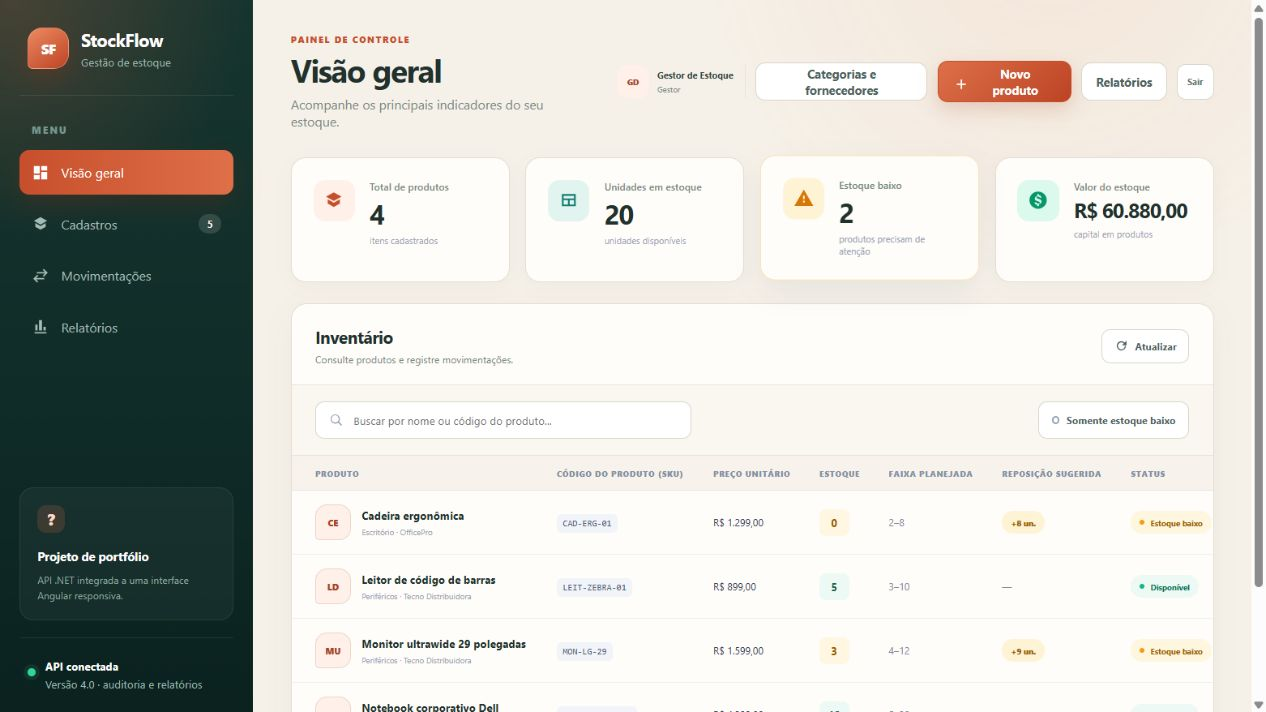
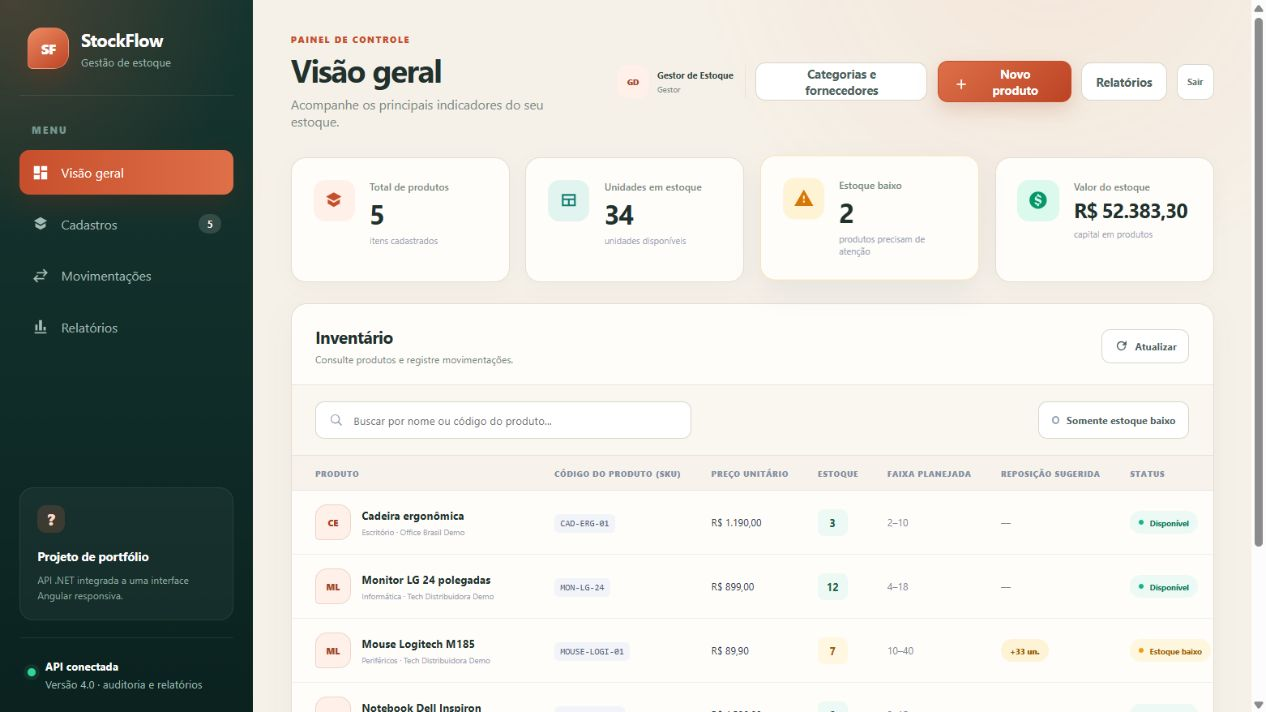
Atualizar imagens e apresentação do README
Atualiza as capturas reais da aplicação e garante a renderização correta no README.

diff --git a/README.md b/README.md
@@ -1,5 +1,10 @@
 # StockFlow
 
+![.NET](https://img.shields.io/badge/.NET-10-512BD4?logo=dotnet)
+![Angular](https://img.shields.io/badge/Angular-22-DD0031?logo=angular)
+![SQL Server](https://img.shields.io/badge/SQL_Server-ready-CC2927?logo=microsoftsqlserver)
+![Docker](https://img.shields.io/badge/Docker-ready-2496ED?logo=docker&logoColor=white)
+
 [![Integração contínua](https://github.com/SamuelMonsalvesMoreira/StockFlow/actions/workflows/ci.yml/badge.svg)](https://github.com/SamuelMonsalvesMoreira/StockFlow/actions/workflows/ci.yml)
 [![Demonstração online](https://img.shields.io/badge/demonstração-online-16a34a)](https://stockflow-samuel.onrender.com/)
 
@@ -13,7 +18,7 @@ Não é necessário instalar ou configurar nada. Na tela de entrada, escolha **A
 
 O Angular e a API ASP.NET Core são publicados no mesmo serviço e no mesmo endereço. Isso mantém a autenticação por cookie no mesmo domínio e simplifica a execução da demonstração.
 
-O serviço gratuito pode levar cerca de um minuto para iniciar após um período sem acessos. O ambiente utiliza dados exclusivamente fictícios e armazenamento em memória: alterações realizadas durante uma visita podem ser reiniciadas quando o serviço for reiniciado.
+O serviço gratuito pode levar alguns segundos para iniciar após um período sem acessos. As alterações feitas na versão online podem ser reiniciadas junto com o serviço.
 
 ## Demonstração visual
 
@@ -31,6 +36,17 @@ O serviço gratuito pode levar cerca de um minuto para iniciar após um período
 ![Tela de login com acessos demonstrativos](docs/screenshots/login.png)
 
 </details>
+
+## Visão técnica
+
+| Área | Implementação |
+|---|---|
+| Back-end | C#, .NET 10 e ASP.NET Core Web API |
+| Front-end | Angular 22 e TypeScript |
+| Segurança | Cookie HttpOnly e autorização Viewer/Manager |
+| Dados | Memória ou Entity Framework Core com SQL Server |
+| Qualidade | 15 testes com xUnit e GitHub Actions |
+| Publicação | Docker, Docker Compose e Render Blueprint |
 
 ## Objetivo
 
@@ -144,7 +160,7 @@ A central de relatórios reúne valor do estoque por categoria, produtos que pre
 | Gestor | `gestor@stockflow.local` | `Gestor123!` | Consulta e alteração |
 | Visitante | `visitante@stockflow.local` | `Visitante123!` | Somente consulta |
 
-Essas credenciais são públicas de propósito e existem somente para a demonstração do portfólio. Elas não possuem informações pessoais e nunca devem ser reutilizadas em outro sistema.
+As contas acima são usadas somente no ambiente de demonstração.
 
 No ambiente online, cinco produtos, três categorias e dois fornecedores fictícios são carregados automaticamente para que dashboard, alertas, histórico e relatórios possam ser avaliados imediatamente.
 
@@ -306,8 +322,10 @@ O workflow de CI executa automaticamente em alterações e pull requests para a 
 - [x] Capturas reais da aplicação no README
 - [x] Blueprint e imagem única preparados para demonstração no Render
 - [ ] Validar a execução completa dos containers em um ambiente com virtualização habilitada
-- [ ] Concluir a primeira publicação da demonstração online
+- [x] Concluir a primeira publicação da demonstração online
 - [ ] Substituir as contas demonstrativas por cadastro de usuários com ASP.NET Core Identity ou provedor externo
 - [ ] Proteger as chaves de sessão com certificado ou cofre de chaves no ambiente de produção
 - [ ] Adicionar filtros, ordenação e paginação
 - [ ] Permitir inativar produtos sem apagar o histórico
+
+
